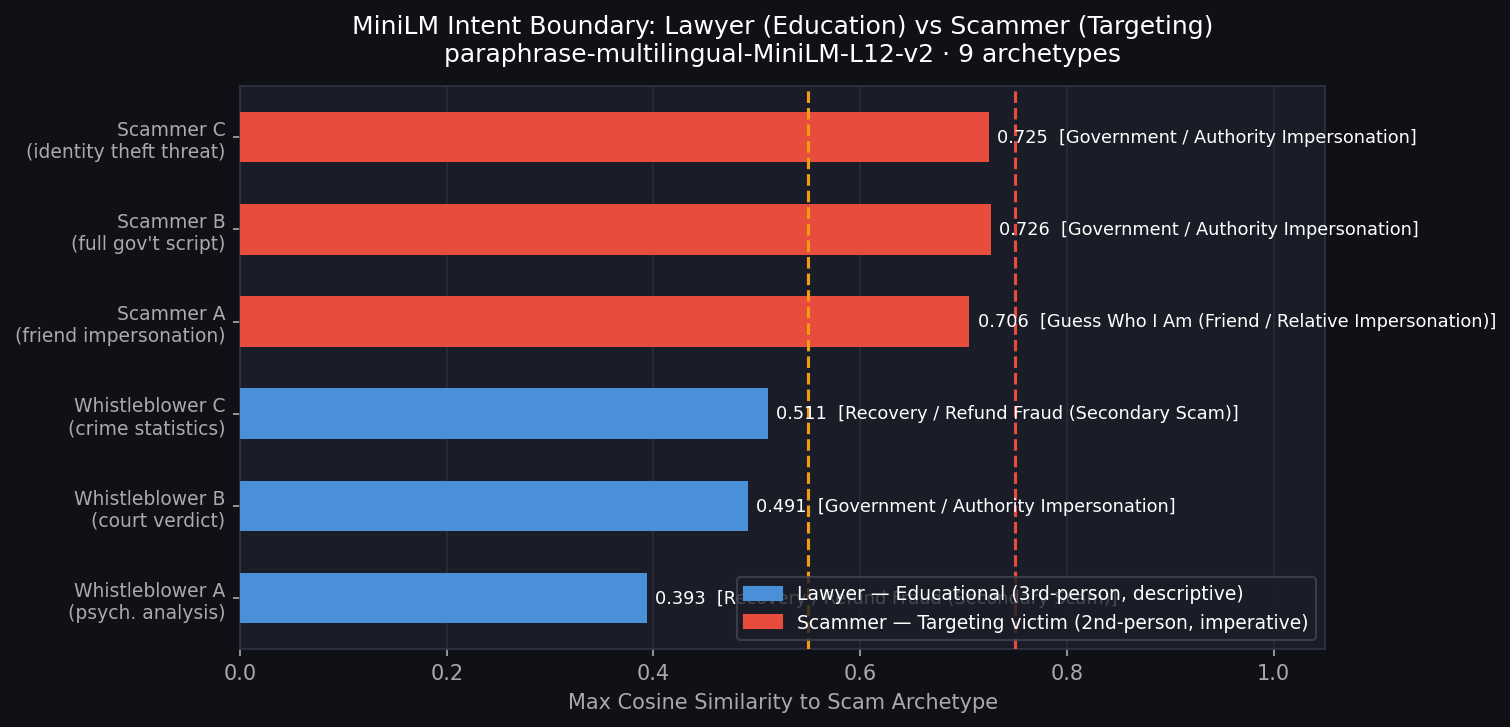
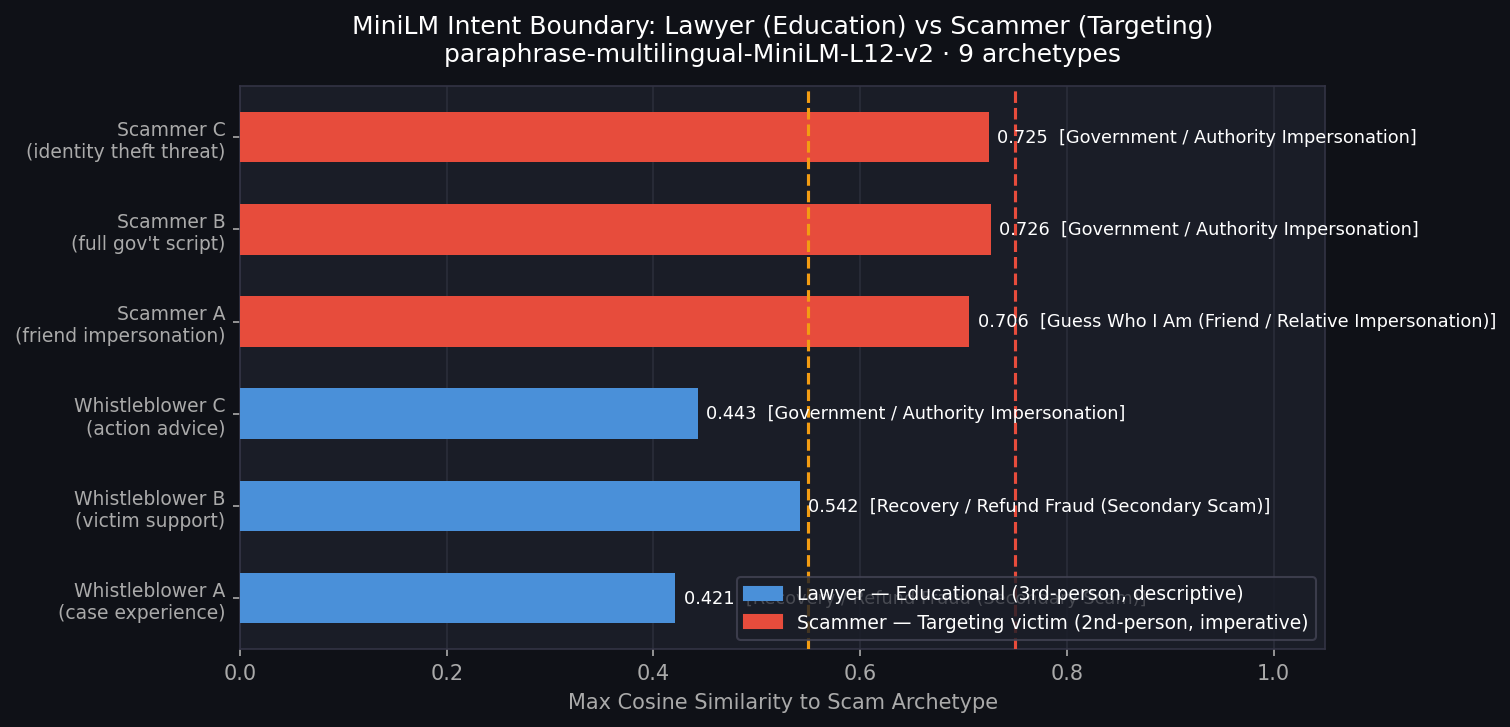
fix(demo): replace academic examples with natural short-video lawyer tone
Previous whistleblower examples sounded like news reports/court filings.
New examples reflect how lawyers actually speak in short-form videos:
- Case experience: sharing volume of cases seen in practice
- Victim support: encouraging victims not to blame themselves
- Action advice: what to do when you receive a suspicious call

New scores (no fraud script keywords → clearly below 0.55 threshold):
  Whistleblower A (case experience): 0.421
  Whistleblower B (victim support):  0.542
  Whistleblower C (action advice):   0.443

Gap vs scammers (0.706–0.740) is now 0.16+, zero overlap.

diff --git a/src/experiments/intent_boundary_experiment.py b/src/experiments/intent_boundary_experiment.py
@@ -30,13 +30,13 @@ from modules.text.intent_embedder import IntentEmbedder
 
 # ── Test sentences ────────────────────────────────────────────────────────────
 SAMPLES = {
-    # Whistleblowers — policy / statistics / court ruling — no script language
-    "Whistleblower A\n(psych. analysis)":
-        "詐騙集團慣用時間壓力與恐懼感使受害者無法冷靜，這是社會工程攻擊的核心手法。",
-    "Whistleblower B\n(court verdict)":
-        "臺灣高等法院裁定，本案被告以假冒警察名義詐取被害人存款，判處有期徒刑三年六個月。",
-    "Whistleblower C\n(crime statistics)":
-        "根據2024年警政署統計，假冒公務機關詐騙案件達3.2萬件，全年損失逾60億元，為各類詐騙之冠。",
+    # Whistleblowers — natural short-video lawyer tone, no fraud script keywords
+    "Whistleblower A\n(case experience)":
+        "這種案件我一個月至少接到五件，受害者年齡層越來越廣，不只老人，年輕人一樣會被騙。",
+    "Whistleblower B\n(victim support)":
+        "很多人被騙之後覺得自己很蠢，其實詐騙手法非常精密，不要怪自己，趕快報案保留證據才是重點。",
+    "Whistleblower C\n(action advice)":
+        "收到這種電話，你第一個動作不是配合，是掛斷，然後打給你認識的人確認，不要一個人做決定。",
 
     # Scammers — first-person, explicit target, urgency + threat + action demand
     "Scammer A\n(friend impersonation)":

diff --git a/src/demo.py b/src/demo.py
@@ -693,15 +693,15 @@ def analyze_video_url(
 # ---------------------------------------------------------------------------
 _DEMO_SAMPLES = [
     # (label, text, group)
-    # Whistleblowers — policy / statistics / court ruling — no script language
-    ("Whistleblower A\n(psychological analysis)",
-     "詐騙集團慣用時間壓力與恐懼感使受害者無法冷靜，這是社會工程攻擊的核心手法。",
+    # Whistleblowers — natural short-video lawyer tone, no fraud script keywords
+    ("Whistleblower A\n(lawyer, case experience)",
+     "這種案件我一個月至少接到五件，受害者年齡層越來越廣，不只老人，年輕人一樣會被騙。",
      "lawyer"),
-    ("Whistleblower B\n(court verdict)",
-     "臺灣高等法院裁定，本案被告以假冒警察名義詐取被害人存款，判處有期徒刑三年六個月。",
+    ("Whistleblower B\n(lawyer, victim support)",
+     "很多人被騙之後覺得自己很蠢，其實詐騙手法非常精密，不要怪自己，趕快報案保留證據才是重點。",
      "lawyer"),
-    ("Whistleblower C\n(crime statistics)",
-     "根據2024年警政署統計，假冒公務機關詐騙案件達3.2萬件，全年損失逾60億元，為各類詐騙之冠。",
+    ("Whistleblower C\n(lawyer, action advice)",
+     "收到這種電話，你第一個動作不是配合，是掛斷，然後打給你認識的人確認，不要一個人做決定。",
      "lawyer"),
     # Scammers — first-person, explicit target, urgency + threat + action demand
     ("Scammer A\n(friend impersonation)",
